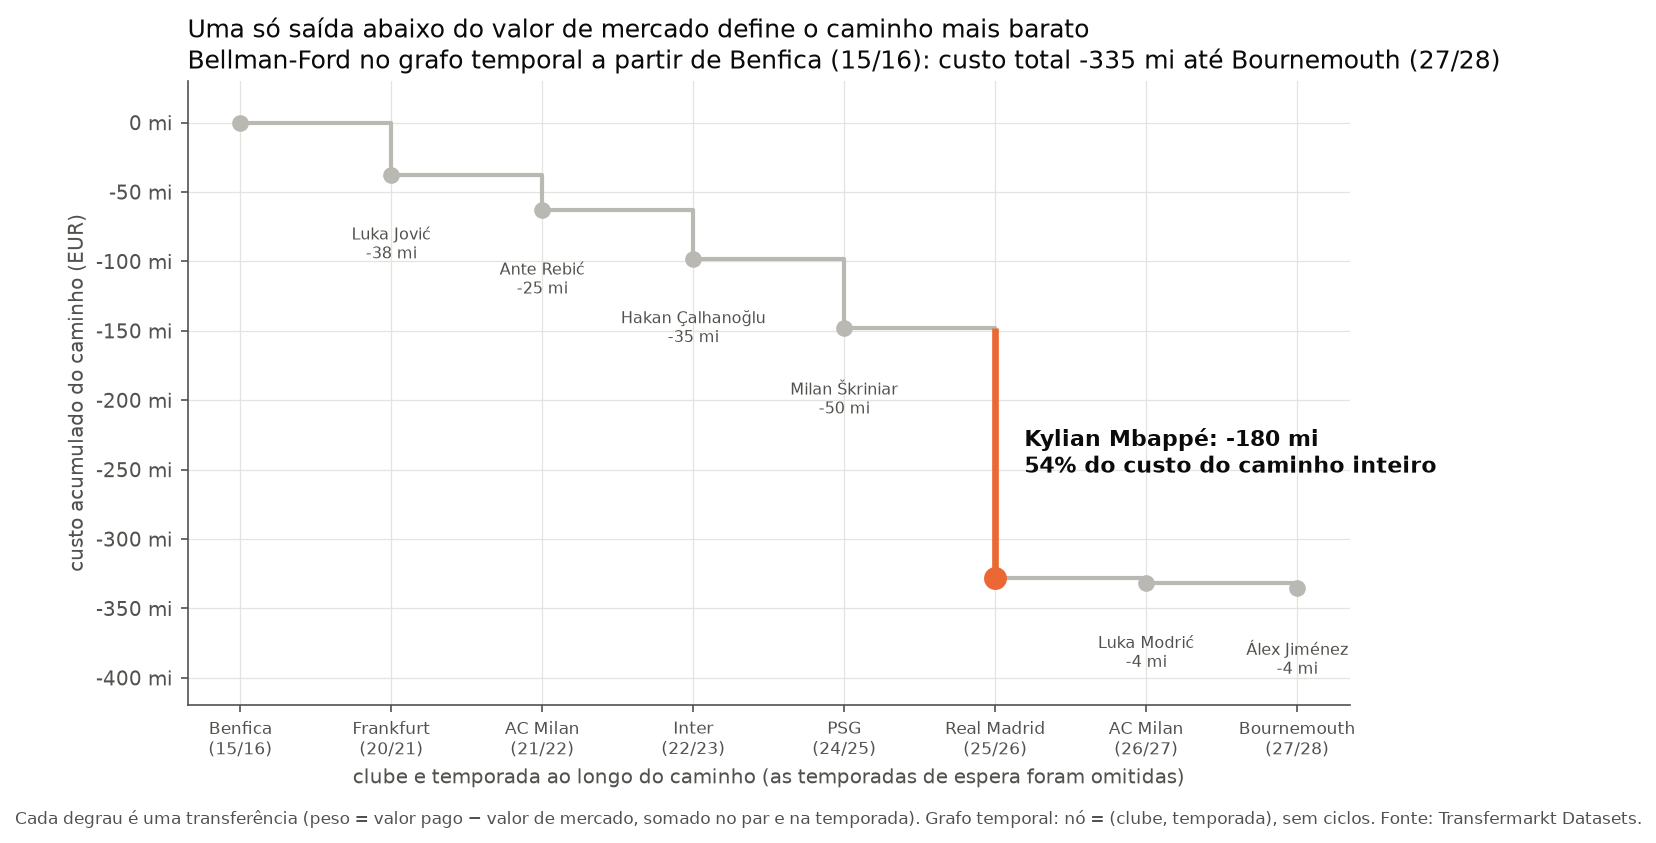
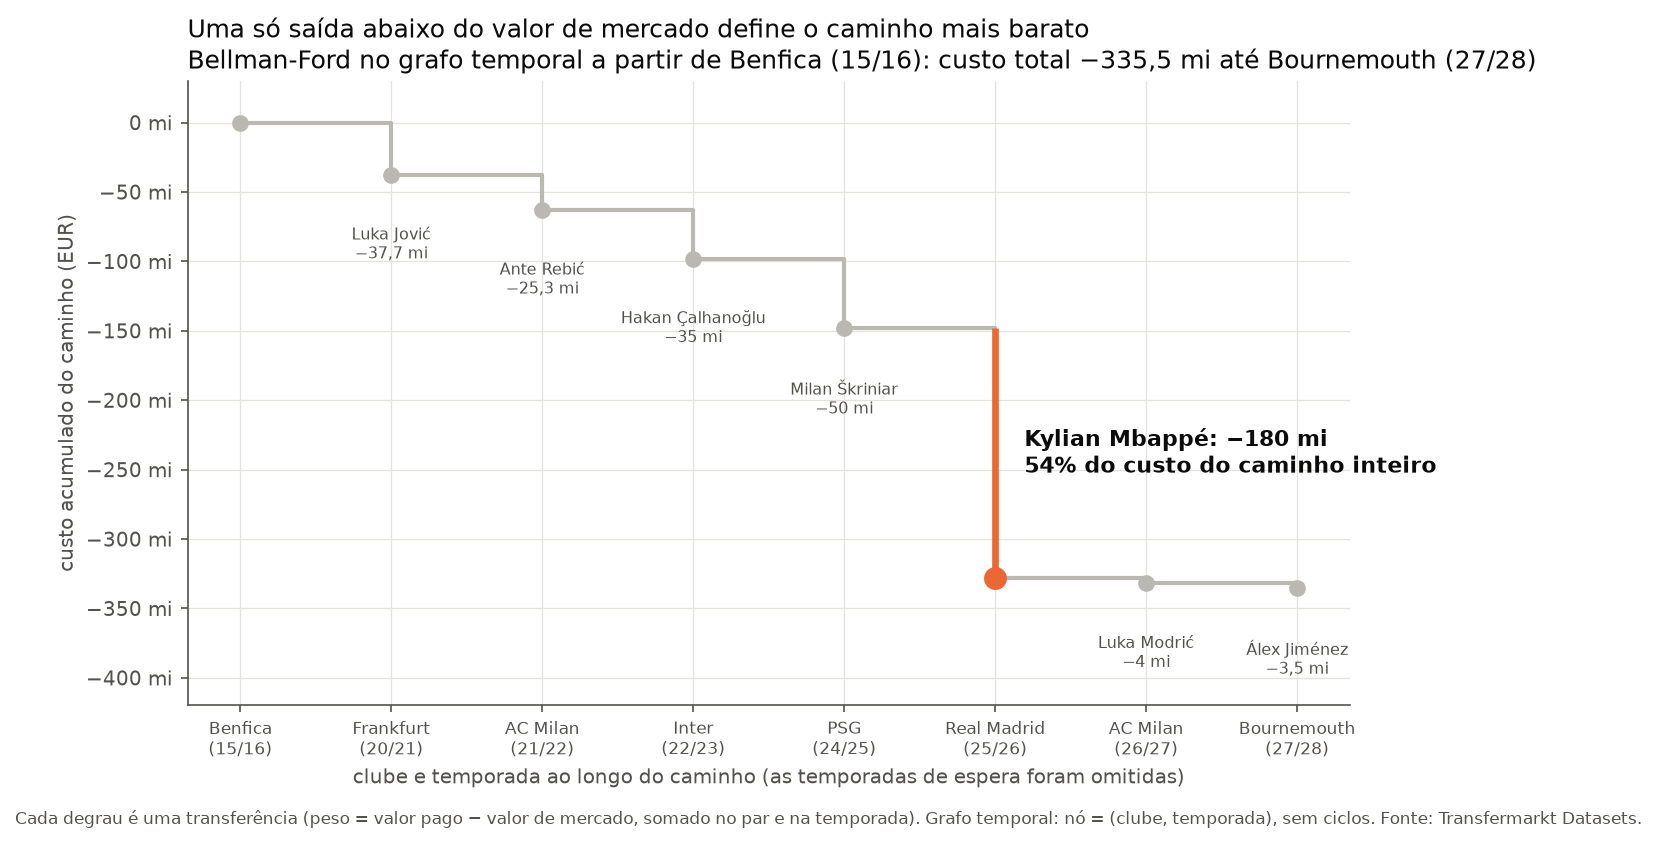
viz parte2: formatacao pt-br e milhoes com uma casa decimal
Os rótulos em EUR arredondavam para o inteiro: −3,5 mi (Jiménez) aparecia
como −4 mi, igual ao −4 mi do Modrić no x1, e −33,8 mi e −34,0 mi viravam o
mesmo "−34 mi" no a4. Agora milhoes() mostra uma casa decimal só quando ela
existe. br()/pct() passam a usar ponto de milhar, vírgula decimal e o sinal
de menos tipográfico, como o matplotlib já fazia nos eixos. Entram também os
helpers usados pelos gráficos seguintes (eur, tempo_ms, resumo_camadas,
rotular_sem_sobrepor, cor_do_algoritmo) e os testes deles. As figuras
afetadas foram regeneradas.

diff --git a/src/viz_parte2.py b/src/viz_parte2.py
@@ -8,17 +8,21 @@ import matplotlib
 matplotlib.use("Agg")
 import matplotlib.pyplot as plt
 import numpy as np
-from matplotlib.ticker import FuncFormatter, PercentFormatter
+from matplotlib.patheffects import withStroke
+from matplotlib.ticker import FixedLocator, FuncFormatter, NullFormatter, PercentFormatter
 
 from .avd_parte2 import SEM_LIGA, enriquecer, iqr
 from .graphs.dataset import carregar_dataset, temporada
 
+# Identidade visual. CORES é a ordem fixa dos algoritmos (BFS, DFS, Dijkstra, Bellman-Ford) nos
+# gráficos A1 e A2; DESTAQUE é a cor da mensagem nos gráficos explanatórios; o resto é cinza.
 CORES = ["#2a78d6", "#eb6834", "#1baf7a", "#e87ba4"]
 DESTAQUE = "#eb6834"
 NEUTRO = "#b9b8b3"
 TEXTO = "#0b0b0b"
 TEXTO_2 = "#52514e"
 GRADE = "#e4e3df"
+MENOS = "−"  # sinal de menos tipográfico, o mesmo que o matplotlib usa nos eixos
 
 LIGAS = {
     "GB1": "Premier League (ING)", "ES1": "LaLiga (ESP)", "IT1": "Serie A (ITA)", "L1": "Bundesliga (ALE)",
@@ -40,12 +44,50 @@ plt.rcParams.update({
 })
 
 
-def br(n):
-    return f"{n:,.0f}".replace(",", ".")
+# --- formatação em pt-BR (ponto de milhar, vírgula decimal, menos tipográfico) ---
+
+def br(n, decimais=0):
+    s = f"{n:,.{decimais}f}".replace(",", "X").replace(".", ",").replace("X", ".")
+    return s.replace("-", MENOS)
+
+
+def pct(v, decimais=0):
+    return br(100 * v, decimais) + "%"
+
+
+def pct_eixo(v, _=None):
+    """Para eixos: 100%, 10%, 1%, 0,1% (sem casas decimais fixas)."""
+    return f"{100 * v:g}".replace(".", ",") + "%"
 
 
 def milhoes(x, _=None):
-    return f"{br(x / 1e6)} mi"
+    """EUR em milhões; uma casa decimal só quando ela existe (−3,5 mi, mas −180 mi)."""
+    v = x / 1e6
+    return f"{br(v, 0 if abs(v - round(v)) < 0.05 else 1)} mi"
+
+
+def eur(x, _=None):
+    """Rótulo de eixo em EUR: 0, 1 mil, 100 mil, 1 mi, 100 mi."""
+    if x == 0:
+        return "0"
+    if abs(x) >= 1e6:
+        return milhoes(x)
+    if abs(x) >= 1e3:
+        return f"{br(x / 1e3)} mil"
+    return br(x)
+
+
+def tempo_ms(ms):
+    if ms >= 1000:
+        return f"{br(ms)} ms (≈ {br(ms / 1000)} s)"
+    return f"{br(ms, 1)} ms"
+
+
+def resumo_camadas(camadas):
+    """Fração dos alcançados nos níveis 2 a 4 e fração até o nível 5."""
+    c = np.asarray(camadas, dtype=float)
+    n = c.sum()
+    return c[2:5].sum() / n, c[:6].sum() / n
 
 
 def salvar(fig, caminho):
@@ -59,6 +101,38 @@ def salvar(fig, caminho):
 def rodape(fig, texto):
     fig.text(0.01, -0.02, texto, fontsize=8, color=TEXTO_2, ha="left", va="top")
 
+
+def rotular_sem_sobrepor(ax, pontos, evitar=()):
+    """Anota cada ponto na primeira posição candidata em que o texto não cobre outro rótulo,
+    a legenda, nem sai do eixo."""
+    fig = ax.figure
+    fig.canvas.draw()
+    r = fig.canvas.get_renderer()
+    caixa_eixo = ax.get_window_extent(r)
+    ocupados = [e.get_window_extent(r) for e in evitar]
+    candidatos = [(-7, 7, "right"), (7, 7, "left"), (-7, -9, "right"), (7, -9, "left"),
+                  (-7, 18, "right"), (7, 18, "left"), (0, 20, "center"), (0, -20, "center")]
+
+    def anotar(x, y, texto, dx, dy, ha):
+        return ax.annotate(texto, (x, y), xytext=(dx, dy), textcoords="offset points", ha=ha, va="center",
+                           fontsize=8, color=TEXTO, path_effects=[withStroke(linewidth=2.5, foreground="white")])
+
+    for x, y, texto in pontos:
+        for dx, dy, ha in candidatos:
+            a = anotar(x, y, texto, dx, dy, ha)
+            caixa = a.get_window_extent(r)
+            dentro = (caixa.x0 >= caixa_eixo.x0 and caixa.x1 <= caixa_eixo.x1
+                      and caixa.y0 >= caixa_eixo.y0 and caixa.y1 <= caixa_eixo.y1)
+            if dentro and not any(caixa.overlaps(o) for o in ocupados):
+                break
+            a.remove()
+        else:
+            a = anotar(x, y, texto, *candidatos[0])
+            caixa = a.get_window_extent(r)
+        ocupados.append(caixa)
+
+
+# --- exploratórias ---
 
 def graus(d, saida):
     a = d.arcos
@@ -203,6 +277,8 @@ def milhoes_ou_mil(x, _=None):
     return f"{x / 1e3:g} mil"
 
 
+# --- explanatórias ---
+
 def explanatoria_caminho(relatorio, saida):
     bf = relatorio["bellman_ford"]["sem_ciclo_negativo"]
     menor = bf["menor_custo"]
@@ -277,7 +353,13 @@ def explanatoria_ligas(t, saida):
     return salvar(fig, Path(saida) / "x2_explanatoria_ligas.png")
 
 
+# --- algoritmos ---
+
 NOMES_ALG = {"BFS": "BFS", "DFS": "DFS", "DIJKSTRA": "Dijkstra", "BELLMAN_FORD": "Bellman-Ford"}
+
+
+def cor_do_algoritmo(alg):
+    return CORES[list(NOMES_ALG).index(alg)]
 
 
 def tempos(relatorio, saida):

diff --git a/tests/test_viz_parte2.py b/tests/test_viz_parte2.py
@@ -1,0 +1,52 @@
+"""Formatação e resumos usados nos gráficos da Parte 2 (não precisa do snapshot)."""
+import pytest
+
+from src.viz_parte2 import br, eur, milhoes, pct, pct_eixo, resumo_camadas, tempo_ms
+
+MENOS = "−"
+
+
+def test_br_usa_ponto_de_milhar_virgula_decimal_e_menos_tipografico():
+    assert br(4739) == "4.739"
+    assert br(22009.862) == "22.010"
+    assert br(-1234.5, 1) == f"{MENOS}1.234,5"
+    assert br(-0.963, 2) == f"{MENOS}0,96"
+
+
+def test_pct():
+    assert pct(0.7809) == "78%"
+    assert pct(0.36636, 1) == "36,6%"
+    assert pct_eixo(1) == "100%"
+    assert pct_eixo(0.001) == "0,1%"
+
+
+def test_milhoes_mostra_uma_casa_decimal_so_quando_ela_existe():
+    # −3,5 mi e −4 mi são transferências diferentes e não podem aparecer iguais
+    assert milhoes(-3_500_000) == f"{MENOS}3,5 mi"
+    assert milhoes(-4_000_000) == f"{MENOS}4 mi"
+    assert milhoes(-33_800_000) == f"{MENOS}33,8 mi"
+    assert milhoes(-34_000_000) == f"{MENOS}34 mi"
+    assert milhoes(180_000_000) == "180 mi"
+    assert milhoes(-335_460_000) == f"{MENOS}335,5 mi"
+
+
+def test_eur_para_eixos():
+    assert eur(0) == "0"
+    assert eur(1_000) == "1 mil"
+    assert eur(-100_000) == f"{MENOS}100 mil"
+    assert eur(1_000_000) == "1 mi"
+    assert eur(-100_000_000) == f"{MENOS}100 mi"
+
+
+def test_tempo_ms():
+    assert tempo_ms(2.416) == "2,4 ms"
+    assert tempo_ms(22009.862) == "22.010 ms (≈ 22 s)"
+
+
+def test_resumo_camadas_com_as_camadas_do_benfica():
+    camadas = [1, 87, 742, 1183, 743, 281, 106, 34, 17, 6, 2, 1]
+    meio, ate5 = resumo_camadas(camadas)
+    assert sum(camadas) == 3203
+    assert meio == pytest.approx((742 + 1183 + 743) / 3203)
+    assert ate5 == pytest.approx((1 + 87 + 742 + 1183 + 743 + 281) / 3203)
+    assert 0.77 < meio < 0.84 and ate5 > 0.9
